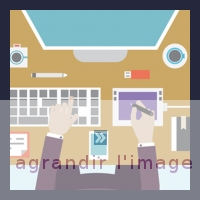
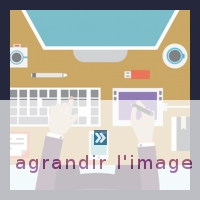
version fonctionnelle de Pinterest

diff --git a/assets/php/upload.php b/assets/php/upload.php
@@ -53,6 +53,8 @@
   }
 
 
+public function FunctionName($value='')
+{
 
     //simple image
     require './assets/src/claviska/SimpleImage.php';
@@ -62,7 +64,7 @@
       $miniature_cible = $thumbnail . basename($_FILES["fichier_upload"]["name"]);
       $overlay = "./img/overlay.png";
       $anchor = "bottom";
-      $opacity = "0.7";
+      $opacity = "0. ";
       $anchor = "bottom";
     try {
       $image = new \claviska\SimpleImage();
